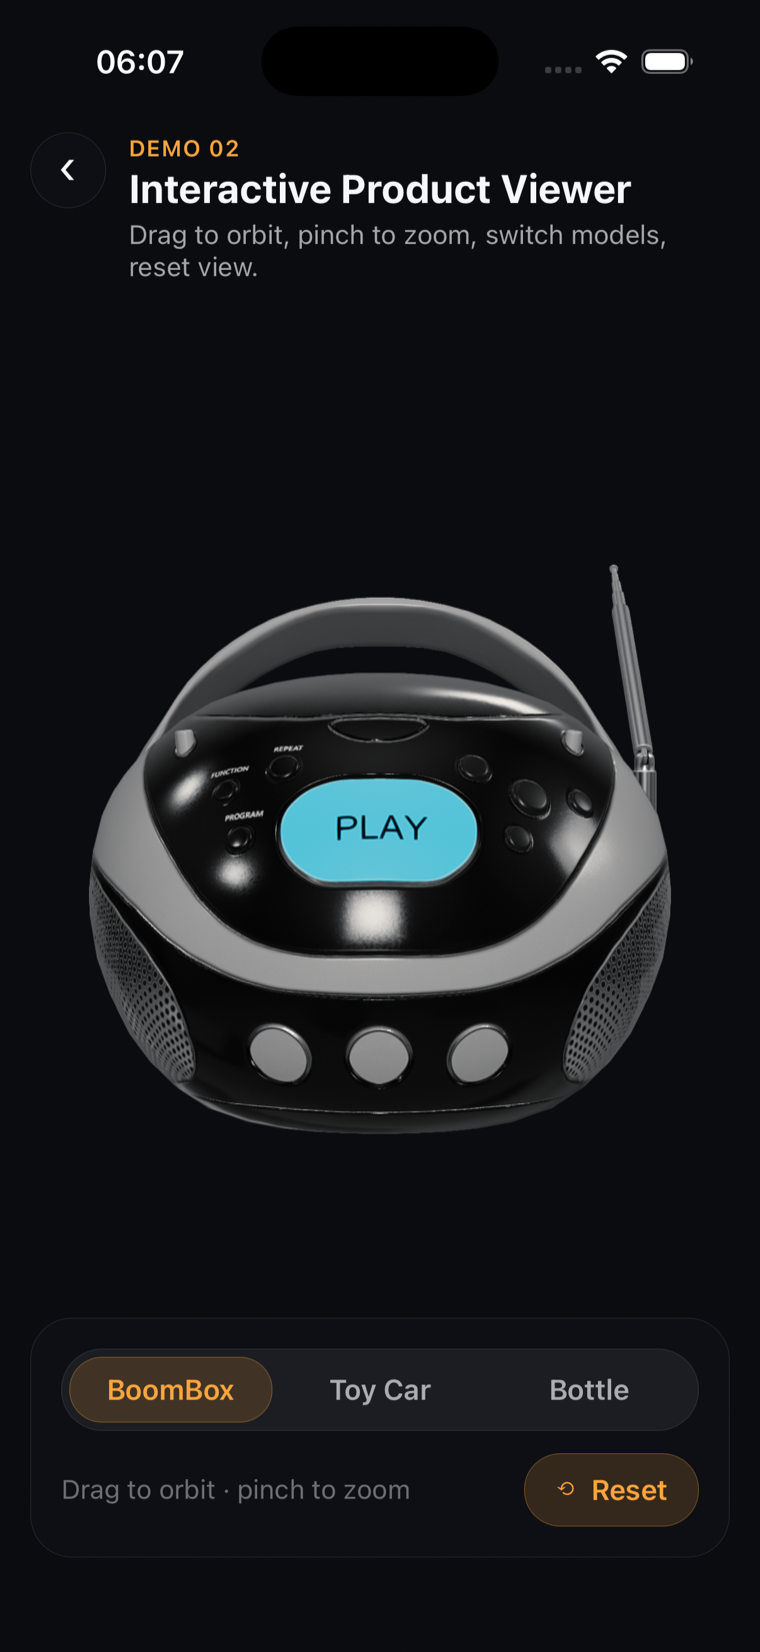
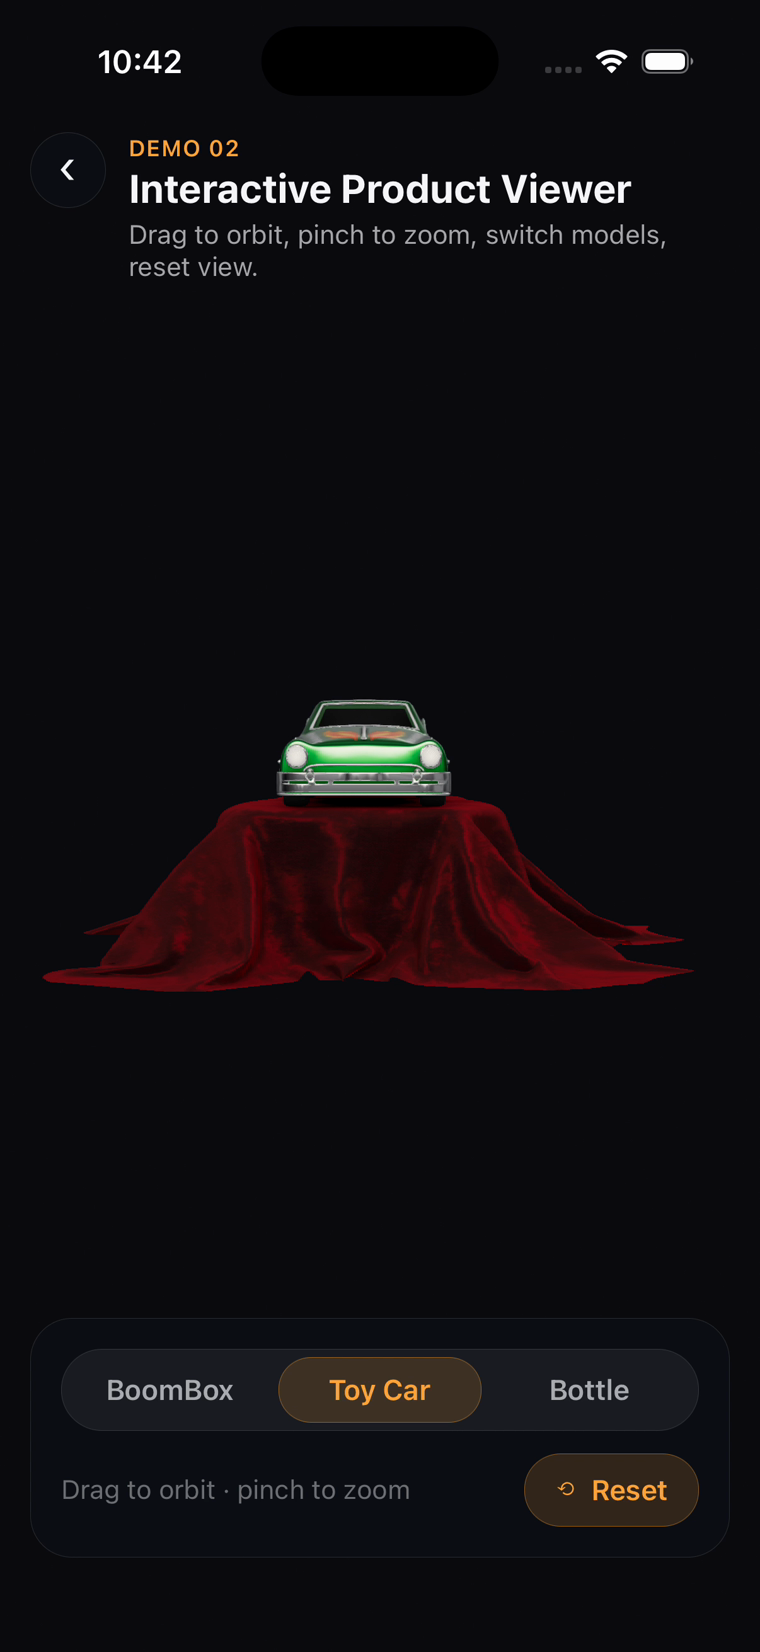
✨ Play demo screen recordings in the lightbox
The detail modal now plays a looping, muted screen recording when a demo
has one, falling back to the static screenshot otherwise.

- Demo 2 cycles BoomBox → Toy Car → Water Bottle (recorded live from the
  iOS Simulator), so it is no longer redundant with Demo 1; its gallery
  thumbnail also swaps from the BoomBox to the Toy Car.
- Demo 1 reuses the existing spin.mp4; Demo 4 uses a downscaled
  fox-animation.mp4.
- Demo 3 (Material & Lighting) has no recording yet, so it stays an image.
- Respect prefers-reduced-motion, matching the hero: auto-loop only when
  motion is allowed, otherwise show controls on a still first frame.

diff --git a/site/src/styles/global.css b/site/src/styles/global.css
@@ -457,13 +457,19 @@ p {
   transform: scale(1);
 }
 
-.lightbox-figure img {
+.lightbox-figure img,
+.lightbox-figure video {
   width: 100%;
   max-height: 78vh;
   object-fit: contain;
   border-radius: var(--radius);
   border: 1px solid var(--border-strong);
   box-shadow: 0 40px 120px -30px oklch(0 0 0 / 0.9);
+}
+
+.lightbox-figure img[hidden],
+.lightbox-figure video[hidden] {
+  display: none;
 }
 
 .lightbox-figure figcaption {

diff --git a/site/src/data/content.ts b/site/src/data/content.ts
@@ -20,6 +20,8 @@ export type DemoCard = {
   title: string;
   tagline: string;
   image: string;
+  /** Optional screen recording; the lightbox plays this and uses `image` as its poster. */
+  video?: string;
   demonstrates: string[];
   model: string;
 };
@@ -32,6 +34,7 @@ export const demos: DemoCard[] = [
     tagline:
       'The simplest clean scene: one model, the engine’s default image-based lighting, and a gentle auto-spin.',
     image: '/media/demo-basic.png',
+    video: '/media/spin.mp4',
     demonstrates: [
       'FilamentScene / FilamentView setup',
       'Loading a .glb with <Model>',
@@ -47,6 +50,7 @@ export const demos: DemoCard[] = [
     tagline:
       'A portfolio-style viewer: drag to orbit, pinch to zoom, switch between three products, and reset the view.',
     image: '/media/demo-product.png',
+    video: '/media/demo-product.mp4',
     demonstrates: [
       'useCameraManipulator (orbit camera)',
       'react-native-gesture-handler pan + pinch',
@@ -77,6 +81,7 @@ export const demos: DemoCard[] = [
     tagline:
       'Skeletal animation playback plus the real glTF → GLB pipeline used to prepare every asset in the app.',
     image: '/media/demo-pipeline.png',
+    video: '/media/demo-pipeline.mp4',
     demonstrates: [
       '<Animator> skeletal clip playback with cross-fade',
       'Switching animation clips at runtime',